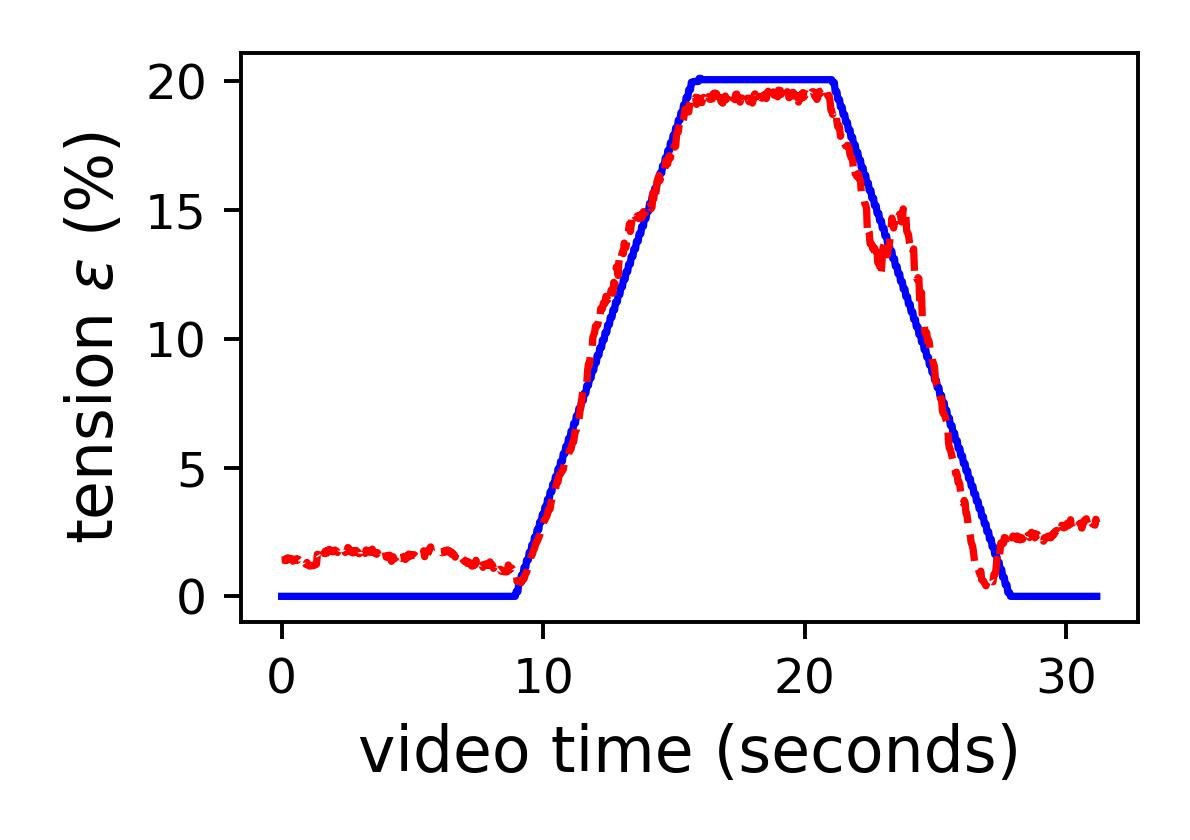
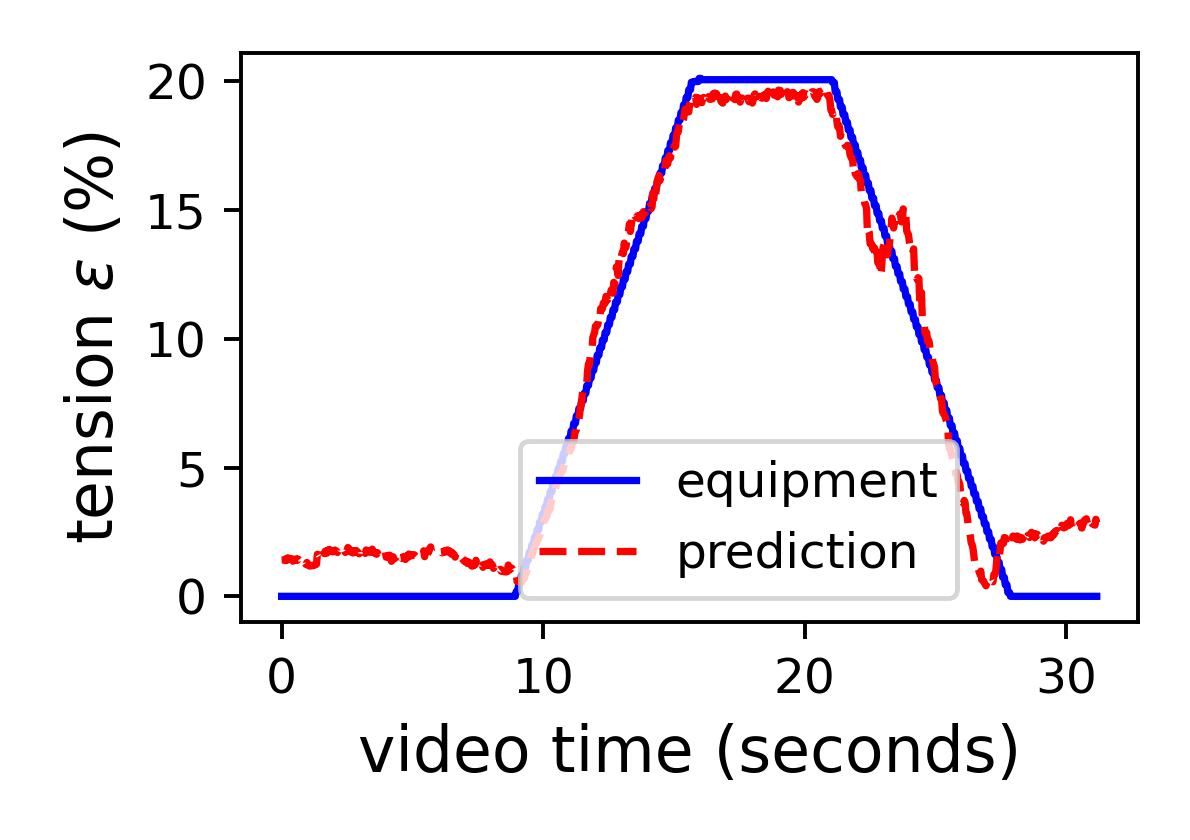
update

Changed region(s): [[0.4353, 0.4952, 0.8084, 0.7429]]

diff --git a/machine_learning.py b/machine_learning.py
@@ -5,13 +5,14 @@ Created on Thu Mar 10 10:03:52 2022
 @author: scabini
 """
 
+
 import os
 # import scipy.io
 import matplotlib.image as mpimg
 import matplotlib.pyplot as plt
 import cv2 as cv
 import numpy as np
-
+import pandas as pd
 from sklearn import linear_model
 from sklearn.neighbors import KNeighborsClassifier
 from sklearn import svm
@@ -169,6 +170,7 @@ regs=[]
 reg_preds=[]
 fig1, ax1 = plt.subplots(nrows=1, ncols=1, figsize=(3,3)) 
 # ax1 = ax1.flat
+df = []
 for it in range(repetitions):
     # crossval = LeaveOneOut()
     # crossval = StratifiedKFold(n_splits=5, shuffle=True, random_state=it*666)
@@ -204,7 +206,7 @@ for it in range(repetitions):
         # reg_preds.append(reg_pred)
             
         ax1.scatter(y_test, reg_pred, color='black', s=10)
-            
+        df.append([y_test, reg_pred])    
         reg= regressor.score(X_test, y_test)
         
         regs.append(reg)
@@ -226,109 +228,129 @@ ax1.set_title('ElasticNet, $R^2=$'+ str(np.round(acc, decimals=2)) + ' ($\pm$' +
 ax1.set_xlabel('ground truth $\epsilon$ ($\%$)', fontsize=13)
 ax1.set_ylabel('predicted $\epsilon$ ($\%$)', fontsize=13)
 fig1.tight_layout()
-fig1.savefig('plots/' + colorspace + "_regression.jpg", dpi=350)   
+# fig1.savefig('plots/' + colorspace + "_regression.jpg", dpi=350)   
 
 
-# ############ VIZUALIZATIONS ###############
-# def get_hists(images, masks, colorspace):
-#     if colorspace == 'RGB':
-#         binsH = [i for i in range(0,256)]
-#     elif colorspace =='HSV':
-#         binsH = [i for i in range(0,180)]
-        
-#     bins = [i for i in range(0,256)]
-#     for i in range(len(images)):
-#         img = mpimg.imread(images[i])
-#         # img = cv.cvtColor(img, cv.COLOR_BGR2RGB)
-        
-#         if colorspace =='HSV':
-#             img = cv.cvtColor(img, cv.COLOR_RGB2HSV)
-        
-#         # mask = np.round(mpimg.imread(masks[i])/255.0)
-#         mask = mpimg.imread(masks[i])
-#         ret,mask = cv.threshold(mask,200,255,cv.THRESH_BINARY)
-#         mask= np.where(mask  == 255.)
+# df.append([x for x in np.unique(y)])
+# df.append([x for x in np.unique(y)])
 
-#         imgR = img[:,:,0]
-#         hist_R,_ = np.histogram(imgR[mask], bins=binsH)
+df = pd.DataFrame(np.asarray(df).reshape((2,33*5)))
+df.to_excel('plots/' + colorspace + '_regression.xlsx', index=False, header=False)
+
+############ VIZUALIZATIONS ###############
+def get_hists(images, masks, colorspace):
+    if colorspace == 'RGB':
+        binsH = [i for i in range(0,256)]
+    elif colorspace =='HSV':
+        binsH = [i for i in range(0,180)]
         
-#         imgG = img[:,:,1]
-#         hist_G,_ = np.histogram(imgG[mask], bins=bins)
-#         # hist_G[0]=0
+    bins = [i for i in range(0,256)]
+    for i in range(len(images)):
+        img = mpimg.imread(images[i])
+        # img = cv.cvtColor(img, cv.COLOR_BGR2RGB)
         
-#         imgB = img[:,:,2]
-#         hist_B,_ = np.histogram(imgB[mask], bins=bins)
+        if colorspace =='HSV':
+            img = cv.cvtColor(img, cv.COLOR_RGB2HSV)
         
-#         return img, hist_R/sum(hist_R), hist_G/sum(hist_G), hist_B/sum(hist_B)
+        # mask = np.round(mpimg.imread(masks[i])/255.0)
+        mask = mpimg.imread(masks[i])
+        ret,mask = cv.threshold(mask,200,255,cv.THRESH_BINARY)
+        mask= np.where(mask  == 255.)
+
+        imgR = img[:,:,0]
+        hist_R,_ = np.histogram(imgR[mask], bins=binsH)
+        
+        imgG = img[:,:,1]
+        hist_G,_ = np.histogram(imgG[mask], bins=bins)
+        # hist_G[0]=0
+        
+        imgB = img[:,:,2]
+        hist_B,_ = np.histogram(imgB[mask], bins=bins)
+        
+        return img, hist_R/sum(hist_R), hist_G/sum(hist_G), hist_B/sum(hist_B)
 
 
-# fig2, ax1 = plt.subplots(nrows=1, ncols=2, figsize=(3, 3)) 
-# ax1 = ax1.flat
+fig2, ax1 = plt.subplots(nrows=1, ncols=2, figsize=(3, 3)) 
+ax1 = ax1.flat
 
-# # a=0
 # a=0
+a=0
 
-# imgA, hist_R, hist_G, hist_B= get_hists(images[a:a+1], masks[a:a+1], colorspace=colorspace)
+imgA, hist_R, hist_G, hist_B= get_hists(images[a:a+1], masks[a:a+1], colorspace=colorspace)
+# img = cv.cvtColor(img, cv.COLOR_BGR2RGB)
+
+plt.subplot(2, 1, 1)
+print(images[a])
+# plt.title(colorspace, fontsize=14)
+# ax1[0].set_title(images[a].split('/')[-1])]
+# x_axis = np.argwhere(hist_R!=0)
+ra=plt.plot(np.argwhere(hist_R!=0),hist_R[hist_R!=0], color='red', label='hue')
+rg=plt.plot(np.argwhere(hist_G!=0),hist_G[hist_G!=0], color='green', label='saturation')
+rb=plt.plot(np.argwhere(hist_B!=0),hist_B[hist_B!=0], color='blue', label='value')
+
+b=7
+# # b= 6
+# # b= 11
+# b=22
+
+print(images[b])
+imgB, hist_R, hist_G, hist_B= get_hists(images[b:b+1], masks[b:b+1], colorspace=colorspace)
 # # img = cv.cvtColor(img, cv.COLOR_BGR2RGB)
 
-# plt.subplot(2, 1, 1)
-# print(images[a])
-# # plt.title(colorspace, fontsize=14)
-# # ax1[0].set_title(images[a].split('/')[-1])]
-# # x_axis = np.argwhere(hist_R!=0)
-# ra=plt.plot(np.argwhere(hist_R!=0),hist_R[hist_R!=0], color='red', label='hue')
-# rg=plt.plot(np.argwhere(hist_G!=0),hist_G[hist_G!=0], color='green', label='saturation')
-# rb=plt.plot(np.argwhere(hist_B!=0),hist_B[hist_B!=0], color='blue', label='value')
-
-# b=7
-# # # b= 6
-# # # b= 11
-# # b=22
-
-# print(images[b])
-# imgB, hist_R, hist_G, hist_B= get_hists(images[b:b+1], masks[b:b+1], colorspace=colorspace)
-# # # img = cv.cvtColor(img, cv.COLOR_BGR2RGB)
-
-# # plt.plot(hist_R, color='red', linestyle='--')
-# # plt.plot(hist_G, color='green', linestyle='--')
-# # plt.plot(hist_B, color='blue', linestyle='--')
-# # plt.xlabel('intensity', fontsize=13)
-# # plt.ylabel('frequency (%)', fontsize=13)
+# plt.plot(hist_R, color='red', linestyle='--')
+# plt.plot(hist_G, color='green', linestyle='--')
+# plt.plot(hist_B, color='blue', linestyle='--')
+# plt.xlabel('intensity', fontsize=13)
+# plt.ylabel('frequency (%)', fontsize=13)
 
 
 
-# pa1 = Patch(edgecolor='red', facecolor='white')
-# pa2 = Patch(edgecolor='green', facecolor='white')
-# pa3 = Patch(edgecolor='blue', facecolor='white')
-# #
-# # pb1 = Patch(edgecolor='red', linestyle='--', facecolor='white')
-# # pb2 = Patch(edgecolor='green', linestyle='--', facecolor='white')
-# # pb3 = Patch(edgecolor='blue', linestyle='--', facecolor='white')
+pa1 = Patch(edgecolor='red', facecolor='white')
+pa2 = Patch(edgecolor='green', facecolor='white')
+pa3 = Patch(edgecolor='blue', facecolor='white')
+#
+# pb1 = Patch(edgecolor='red', linestyle='--', facecolor='white')
+# pb2 = Patch(edgecolor='green', linestyle='--', facecolor='white')
+# pb3 = Patch(edgecolor='blue', linestyle='--', facecolor='white')
 
-# # plt.legend(handles=[pa1, pb1, pa2, pb2, pa3, pb3],
-# #           labels=['', '', '', '', images[a].split('/')[-1], images[b].split('/')[-1]],
-# #           ncol=3, handletextpad=0.5, handlelength=1.0, columnspacing=-0.5,
-# #           fontsize=13)
+# plt.legend(handles=[pa1, pb1, pa2, pb2, pa3, pb3],
+#           labels=['', '', '', '', images[a].split('/')[-1], images[b].split('/')[-1]],
+#           ncol=3, handletextpad=0.5, handlelength=1.0, columnspacing=-0.5,
+#           fontsize=13)
 
-# plt.legend()
-# plt.tight_layout()
+plt.legend()
+plt.tight_layout()
 
-# # plt.subplot(2, 2, 3)
-# # plt.title(images[a].split('/')[-1])
+# plt.subplot(2, 2, 3)
+# plt.title(images[a].split('/')[-1])
+plt.xticks([]), plt.yticks([])
+
+# df = []
+# df.append(np.argwhere(hist_R!=0)[:,0])
+# df.append(hist_R[hist_R!=0])
+
+# df.append(np.argwhere(hist_G!=0)[:,0])
+# df.append(hist_G[hist_G!=0])
+
+# df.append(np.argwhere(hist_B!=0)[:,0])
+# df.append(hist_B[hist_B!=0])
+
+# df = pd.DataFrame(df)
+# df.to_excel('plots/HSV_distribution.xlsx', index=False, header=False)
+
+# if colorspace == 'HSV':
+#     imgA = cv.cvtColor(imgA, cv.COLOR_HSV2RGB)
+# plt.imshow(imgA)
+
+# plt.subplot(2, 2, 4)
+# plt.title(images[b].split('/')[-1])
 # plt.xticks([]), plt.yticks([])
-# # if colorspace == 'HSV':
-# #     imgA = cv.cvtColor(imgA, cv.COLOR_HSV2RGB)
-# # plt.imshow(imgA)
+# if colorspace == 'HSV':
+#     imgB = cv.cvtColor(imgB, cv.COLOR_HSV2RGB)
+# plt.imshow(imgB)
+# plt.savefig('plots/' + images[a].split('/')[-1] + images[b].split('/')[-1] + colorspace+ ".jpg", dpi=350) 
 
-# # plt.subplot(2, 2, 4)
-# # plt.title(images[b].split('/')[-1])
-# # plt.xticks([]), plt.yticks([])
-# # if colorspace == 'HSV':
-# #     imgB = cv.cvtColor(imgB, cv.COLOR_HSV2RGB)
-# # plt.imshow(imgB)
-# # plt.savefig('plots/' + images[a].split('/')[-1] + images[b].split('/')[-1] + colorspace+ ".jpg", dpi=350) 
-
-# # plt.savefig('plots/FOR_PAPER' + images[a].split('/')[-1] + images[b].split('/')[-1] + colorspace+ ".jpg", dpi=350) 
+# plt.savefig('plots/FOR_PAPER' + images[a].split('/')[-1] + images[b].split('/')[-1] + colorspace+ ".jpg", dpi=350) 
 
 
 

diff --git a/video.py b/video.py
@@ -4,7 +4,7 @@ Created on Tue Mar 29 20:15:28 2022
 
 @author: scabini
 """
-
+import pandas as pd
 import cv2 as cv
 from sklearn import linear_model
 from pre_processing import pre_process
@@ -12,7 +12,7 @@ from machine_learning import getListOfFiles,get_feature,get_features
 import numpy as np
 import matplotlib.pyplot as plt
 
-dataset = '' #path of the data (root folder contains our data)
+dataset = 'C:/Users/Svartox/Documents/datasets/Mecanosensors/' #path of the data (root folder contains our data)
 
 images_path = dataset + 'cropped_images/'
 masks_path = dataset + 'new_masks/'
@@ -60,10 +60,10 @@ while success:
     features = get_feature(img, mask, colorspace='HSV')
                            
     reg_pred = regressor.predict(features.reshape(-1, 690))
-    preds.append(reg_pred)
+    preds.append(reg_pred[0])
     gtruth.append(equipment_curve[j])
-    cv.putText(frame, ' predicted: ' +  str(np.round(reg_pred[0], decimals=2)), (250, 850), cv.FONT_HERSHEY_SIMPLEX, 4, (0, 0, 255), 7)
-    cv.putText(frame, 'equipment: ' + str(equipment_curve[j]), (250, 1000), cv.FONT_HERSHEY_SIMPLEX, 4 , (255, 0, 0), 7) 
+    # cv.putText(frame, ' predicted: ' +  str(np.round(reg_pred[0], decimals=2)), (250, 850), cv.FONT_HERSHEY_SIMPLEX, 4, (0, 0, 255), 7)
+    # cv.putText(frame, 'equipment: ' + str(equipment_curve[j]), (250, 1000), cv.FONT_HERSHEY_SIMPLEX, 4 , (255, 0, 0), 7) 
     
     print("g.truth=", equipment_curve[j], '--- ElasticNet=', reg_pred)
     
@@ -79,7 +79,7 @@ while success:
     
 video.release()
 
-out.release()
+# out.release()
 
 cv.destroyAllWindows()
 
@@ -89,6 +89,8 @@ fig, ax1 = plt.subplots(nrows=1, ncols=1, figsize=(3.4, 2.4))
 ax1.plot([i/30 for i in range(len(gtruth))], gtruth, color='blue', label='equipment')
 ax1.plot([i/30 for i in range(len(gtruth))], preds, color='red', linestyle='--', label='prediction')
 
+
+
 # plt.title(sample)
 plt.xlabel('video time (seconds)', fontsize=13)
 plt.ylabel('tension $\epsilon$ ($\%$)', fontsize=13)
@@ -96,6 +98,12 @@ plt.legend(loc='lower center', bbox_to_anchor=(0.5, 0., 0.11, 0.5))
 plt.tight_layout()
 plt.savefig('plots/' + sample +'_videoValidation.jpg', dpi=350) 
 
+df = []
+df.append([i/30 for i in range(len(gtruth))])
+df.append(gtruth)
+df.append(preds)
+df = pd.DataFrame(df)
+df.to_excel('plots/' + sample +'_videoValidation.xlsx', index=False, header=False)
 
 
 
